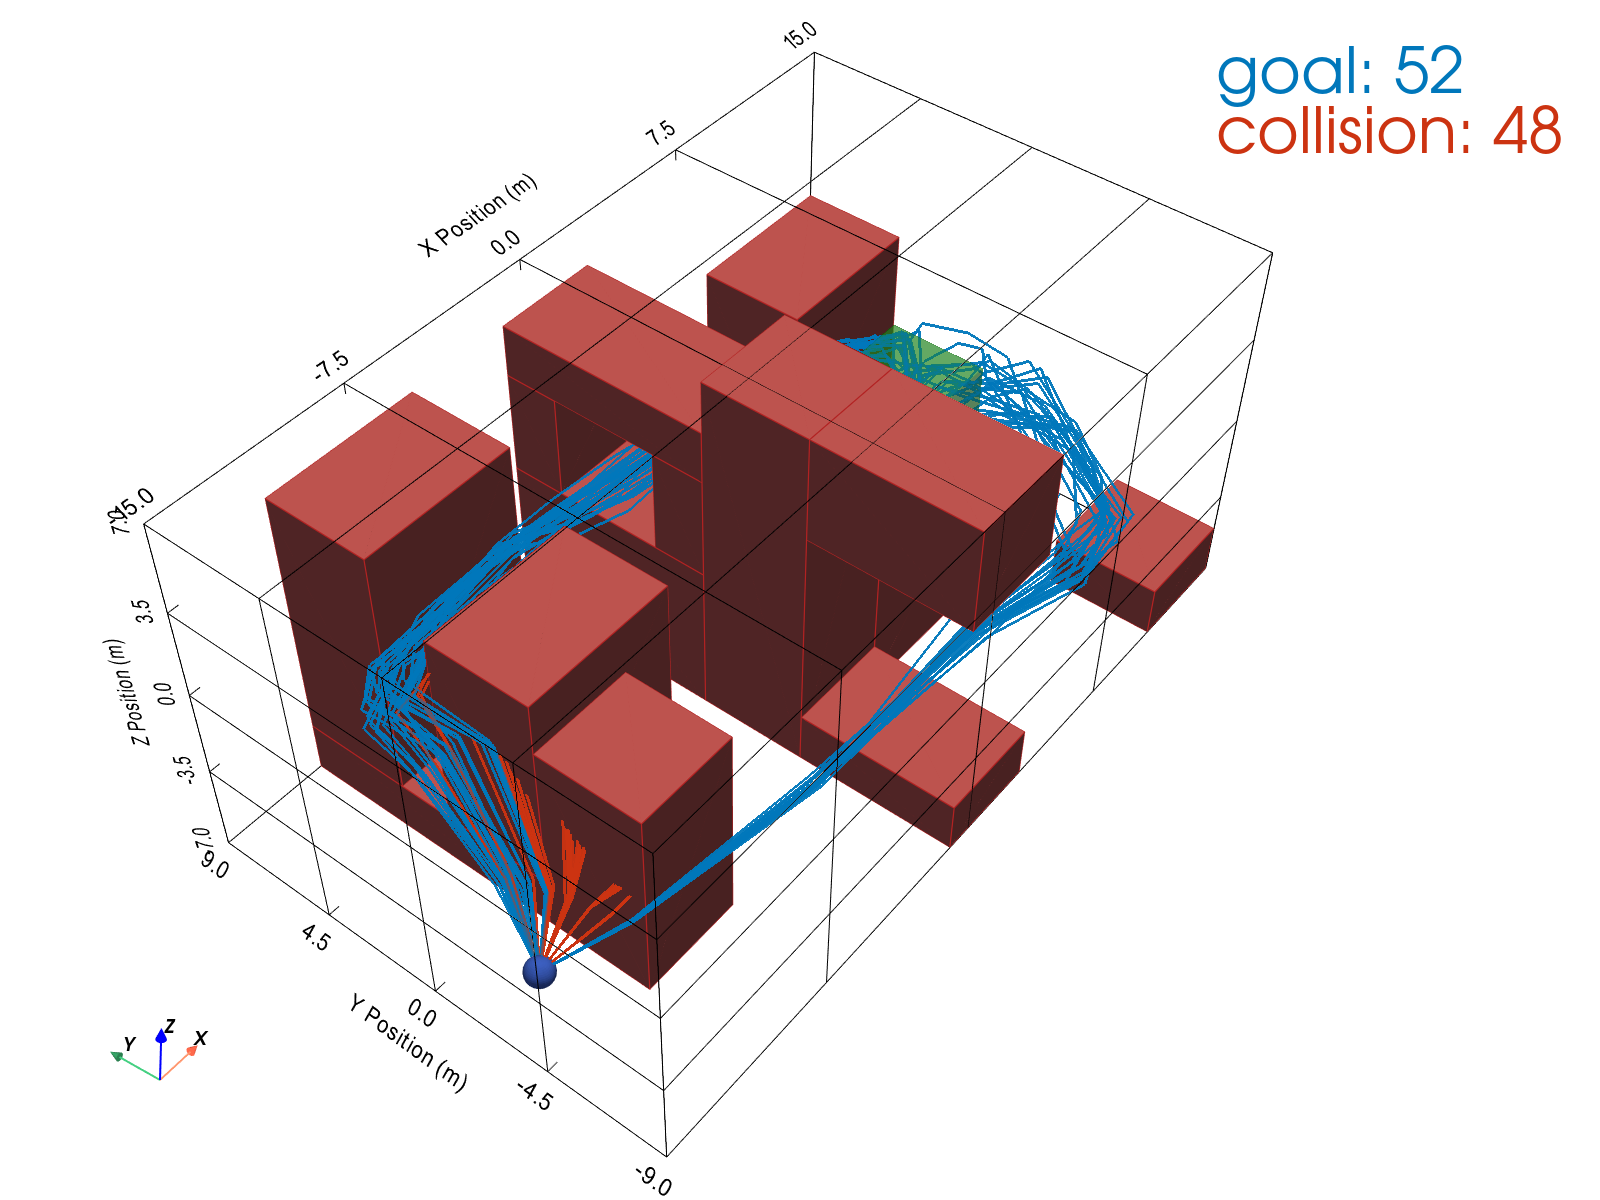
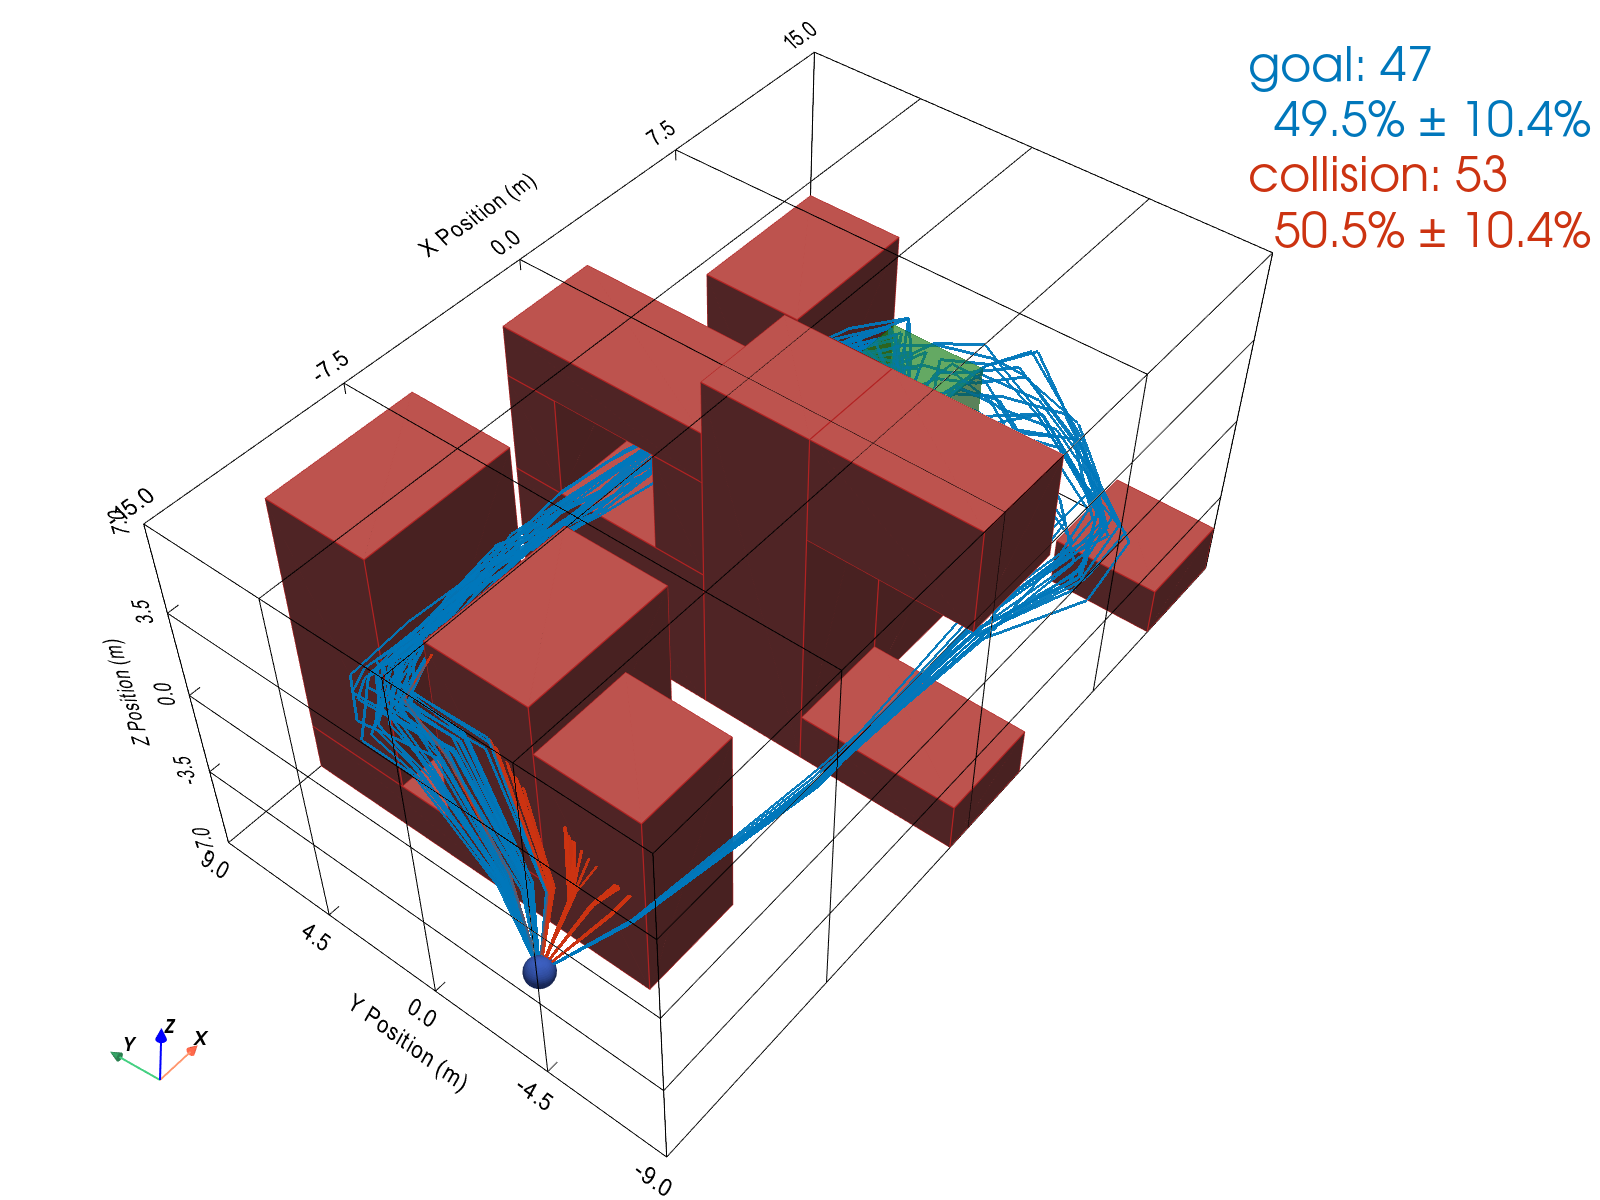
Update UAV 3D

diff --git a/experiments/rl_benchmarks/collect_uav3d_rollouts.py b/experiments/rl_benchmarks/collect_uav3d_rollouts.py
@@ -74,11 +74,17 @@ def _robustified_action(
     state: np.ndarray,
     parameters: Parameters,
     sigma: float,
+    device: torch.device,
 ) -> np.ndarray:
     """Build a smoother at ``state`` and return one action from the
     robustified ``MixtureDirac``.
+
+    ``x`` is created directly on ``device`` so the ``confidence.num_samples``
+    / ``smoothing.N`` additive-noise samples that ``smooth()`` evaluates the
+    policy on are batched through the network on the GPU (when available)
+    rather than the CPU.
     """
-    x = torch.tensor(normalize_state(state), dtype=torch.float32).unsqueeze(0)
+    x = torch.tensor(normalize_state(state), dtype=torch.float32, device=device).unsqueeze(0)
     smoother = GaussianAlphaTrimmingSmoothing(
         stochastic_function=stochastic_fn,
         x=x,
@@ -141,9 +147,9 @@ def _kinematic_magnitudes(state_trace: np.ndarray) -> tuple[np.ndarray, np.ndarr
     return np.linalg.norm(accel, axis=1), np.linalg.norm(jerk, axis=1)
 
 
-def _raw_policy_action_fn(policy: VariationalPolicy):
+def _raw_policy_action_fn(policy: VariationalPolicy, device: torch.device):
     def f(state: np.ndarray) -> np.ndarray:
-        state_t = torch.tensor(normalize_state(state), dtype=torch.float32).unsqueeze(0)
+        state_t = torch.tensor(normalize_state(state), dtype=torch.float32, device=device).unsqueeze(0)
         with torch.no_grad():
             action_t, _, _ = policy.sample(state_t)
         return action_t.squeeze(0).cpu().numpy().astype(np.float32)
@@ -154,6 +160,7 @@ def _robustified_action_fn(
     stochastic_fn: UAV3DPolicyStochasticFunction,
     parameters: Parameters,
     sigma: float,
+    device: torch.device,
 ):
 
     def action(state: np.ndarray) -> np.ndarray:
@@ -162,6 +169,7 @@ def _robustified_action_fn(
             state=state,
             parameters=parameters,
             sigma=sigma,
+            device=device,
         )
         return a
 
@@ -210,6 +218,7 @@ def _run_all_policies(
     stochastic_fn: UAV3DPolicyStochasticFunction,
     parameters_robust: Parameters,
     parameters_alpha: Parameters,
+    device: torch.device,
     keep_traces: bool,
 ) -> dict[str, _PolicyResult]:
     """Roll out raw / alpha / robust policies once under whatever seed the
@@ -223,7 +232,7 @@ def _run_all_policies(
         results["raw"] = _collect_trajectories(
             env=env, start_state=BIMODAL_START_STATE, horizon=args.horizon,
             num_trajectories=args.num_trajectories,
-            action_fn=_raw_policy_action_fn(policy), label="raw",
+            action_fn=_raw_policy_action_fn(policy, device=device), label="raw",
             keep_traces=keep_traces,
         )
     if not args.no_alpha:
@@ -233,7 +242,7 @@ def _run_all_policies(
             env=env, start_state=BIMODAL_START_STATE, horizon=args.horizon,
             num_trajectories=args.num_trajectories,
             action_fn=_robustified_action_fn(
-                stochastic_fn=stochastic_fn, parameters=parameters_alpha, sigma=args.sigma,
+                stochastic_fn=stochastic_fn, parameters=parameters_alpha, sigma=args.sigma, device=device,
             ),
             label="alpha", keep_traces=keep_traces,
         )
@@ -243,7 +252,7 @@ def _run_all_policies(
         env=env, start_state=BIMODAL_START_STATE, horizon=args.horizon,
         num_trajectories=args.num_trajectories,
         action_fn=_robustified_action_fn(
-            stochastic_fn=stochastic_fn, parameters=parameters_robust, sigma=args.sigma,
+            stochastic_fn=stochastic_fn, parameters=parameters_robust, sigma=args.sigma, device=device,
         ),
         label="robust", keep_traces=keep_traces,
     )
@@ -284,11 +293,17 @@ def main() -> None:
                         default="experiments/uav_3d/bimodal_rollouts.pkl",
                         help="Where to write the rollout bundle consumed by "
                              "visualize_uav3d_robustified_pyvista.py.")
+    parser.add_argument("--device", type=str, default=None,
+                        help="torch device for the policy / smoothing forward passes "
+                             "(e.g. 'cuda', 'cpu'). Defaults to cuda if available.")
     args = parser.parse_args()
+
+    device = torch.device(args.device or ("cuda" if torch.cuda.is_available() else "cpu"))
 
     checkpoint_path = Path(args.checkpoint)
     policy, action_scale = _load_uav3d_policy(checkpoint_path)
-    print(f"Loaded VI-BNN policy from {checkpoint_path} (action_scale={action_scale}).")
+    policy.to(device)
+    print(f"Loaded VI-BNN policy from {checkpoint_path} (action_scale={action_scale}) onto {device}.")
 
     stochastic_fn = UAV3DPolicyStochasticFunction(policy=policy)
 
@@ -332,7 +347,7 @@ def main() -> None:
         seed_results = _run_all_policies(
             env=env, args=args, policy=policy, stochastic_fn=stochastic_fn,
             parameters_robust=parameters_robust, parameters_alpha=parameters_alpha,
-            keep_traces=is_primary,
+            device=device, keep_traces=is_primary,
         )
         for name, result in seed_results.items():
             per_seed_results[name].append(result)

diff --git a/experiments/rl_benchmarks/visualize_uav3d_robustified_pyvista.py b/experiments/rl_benchmarks/visualize_uav3d_robustified_pyvista.py
@@ -30,7 +30,7 @@ def _add_legend_text(
     plotter,
     entries: list[list[str]],
     *,
-    x_ndc: float = 0.70,
+    x_ndc: float = 0.78,
     margin_ndc: float = 0.04,
     font_size: int = 24,
     window_height: int = 1200,
@@ -57,9 +57,9 @@ def _add_legend_text(
     text_height_ndc = 1.83 * font_size / float(window_height)
     y_top_ndc = 1.0 - margin_ndc - text_height_ndc
     if line_dy_ndc is None:
-        # Default line height = 1.9 × font height keeps the gap proportional
+        # Default line height = 2.3 × font height keeps the gap proportional
         # to the font size when the caller scales font_size.
-        line_dy_ndc = 1.9 * font_size / float(window_height)
+        line_dy_ndc = 2.3 * font_size / float(window_height)
     for i, (text, color) in enumerate(entries):
         plotter.add_text(
             text,
